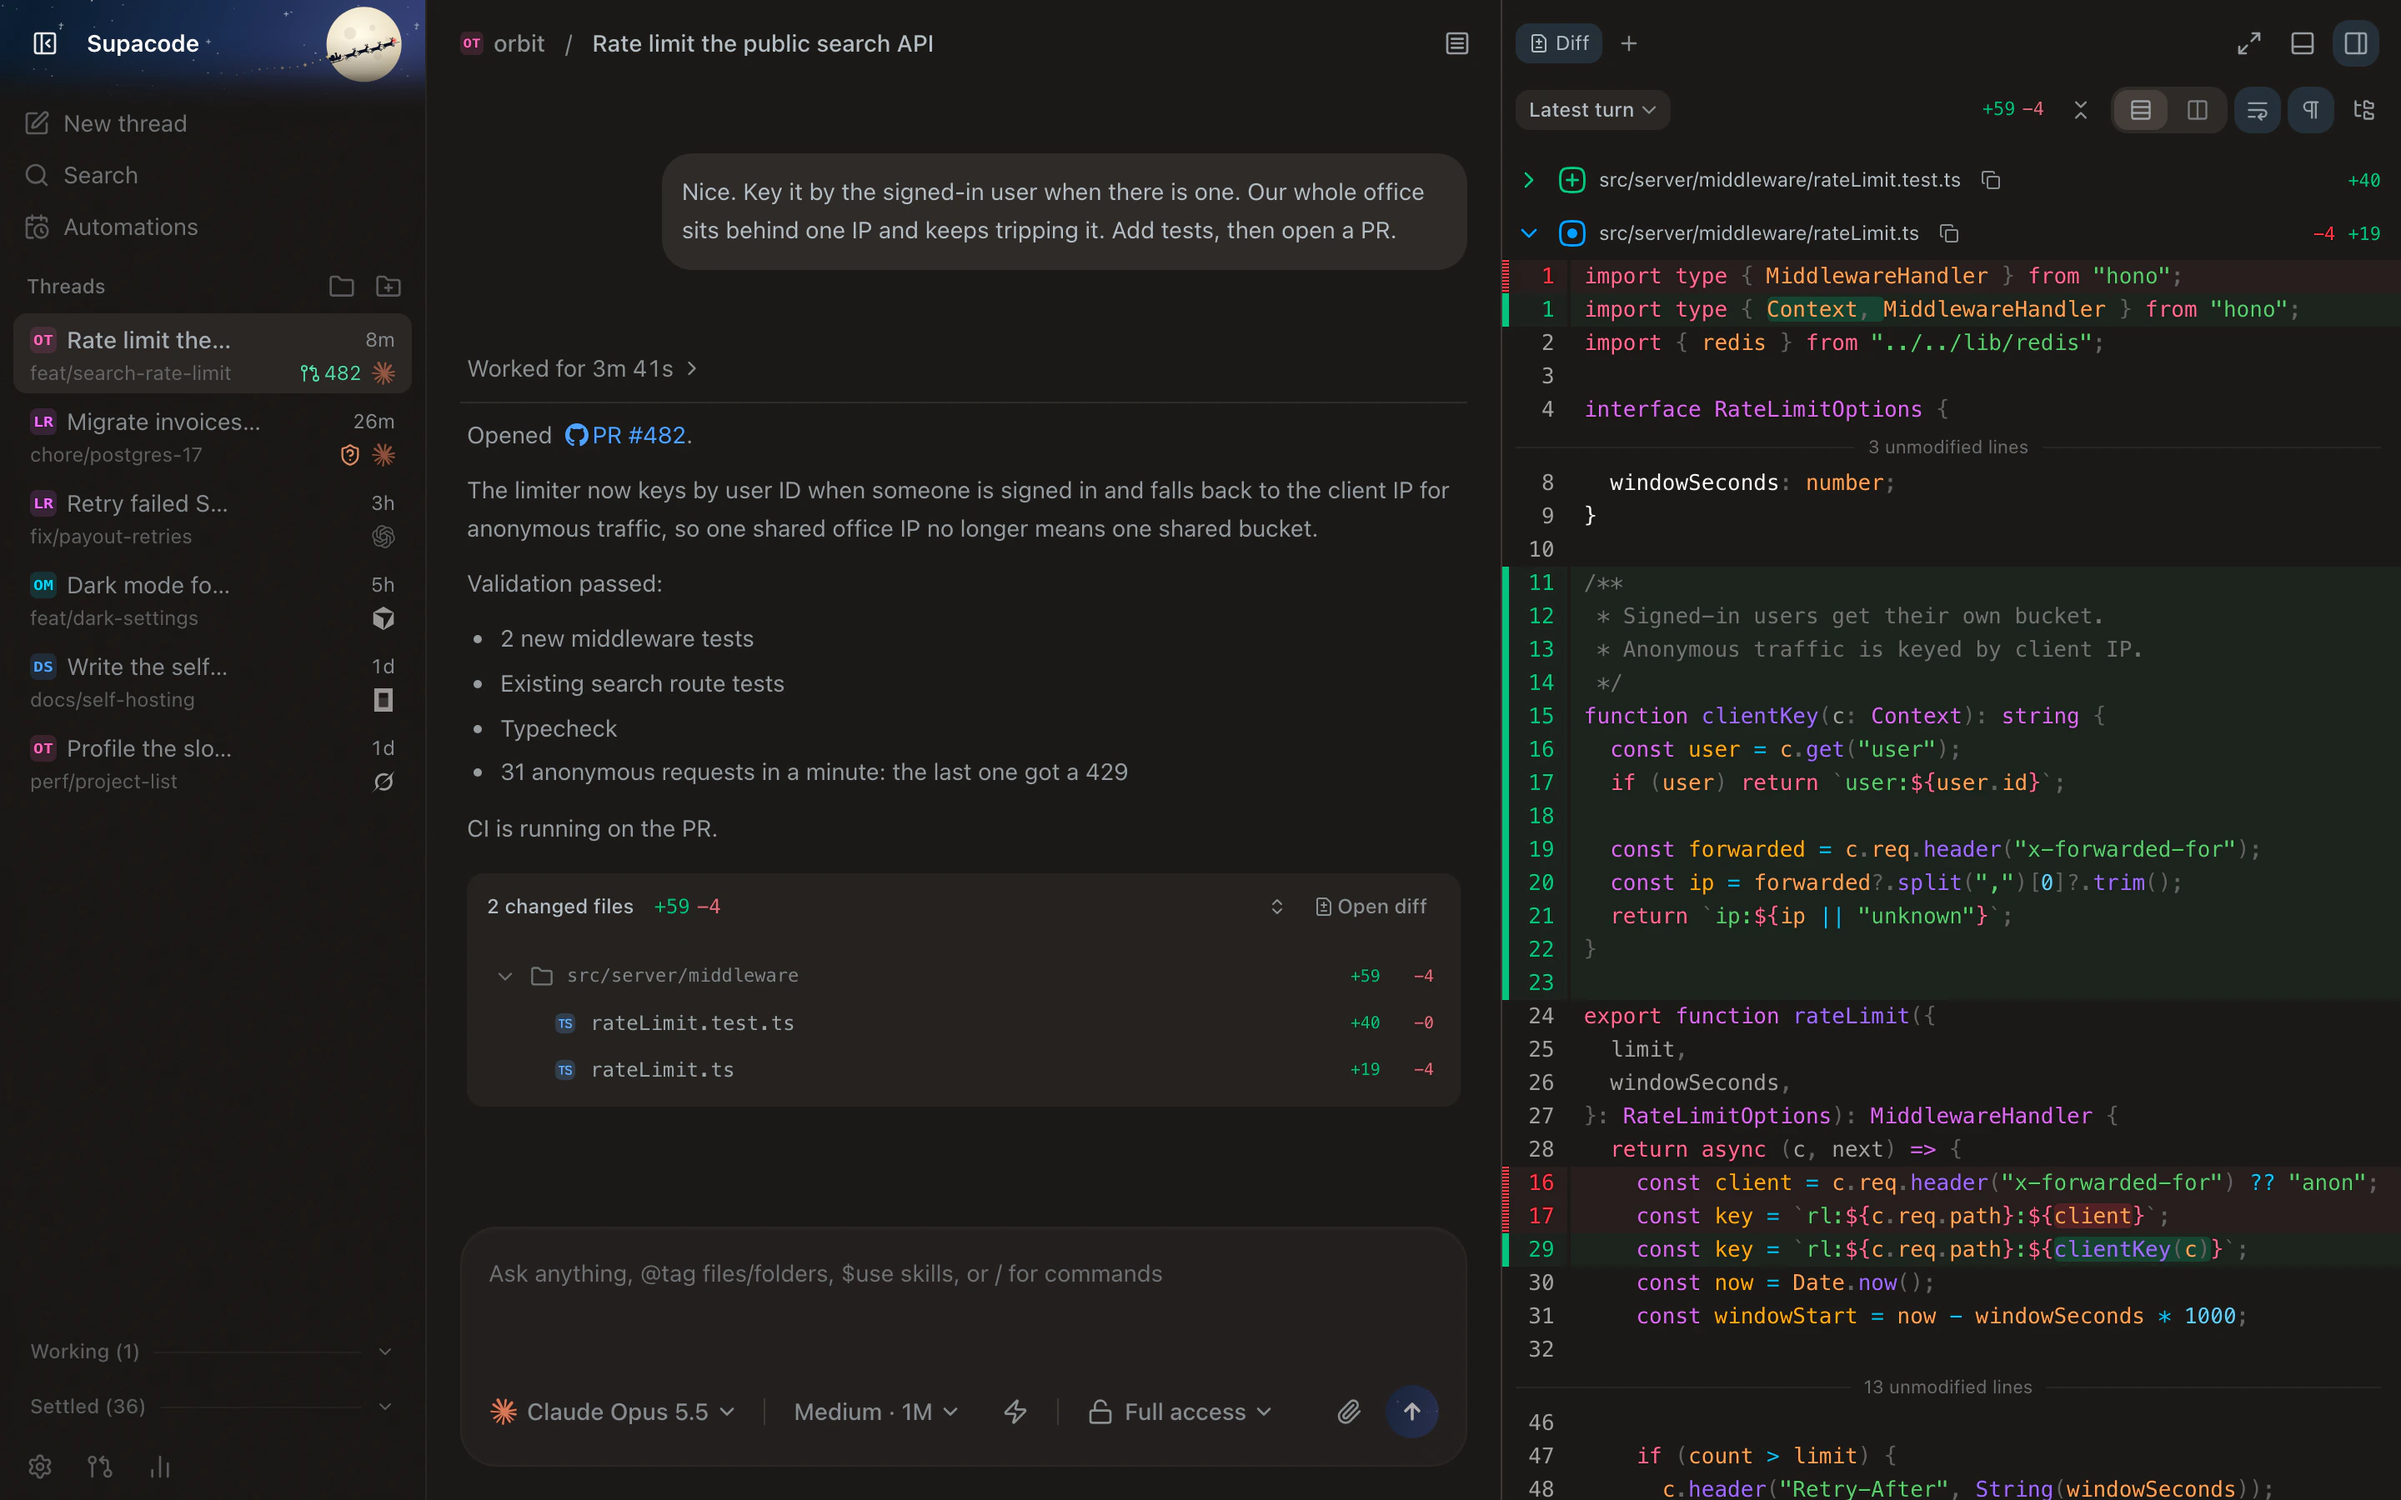
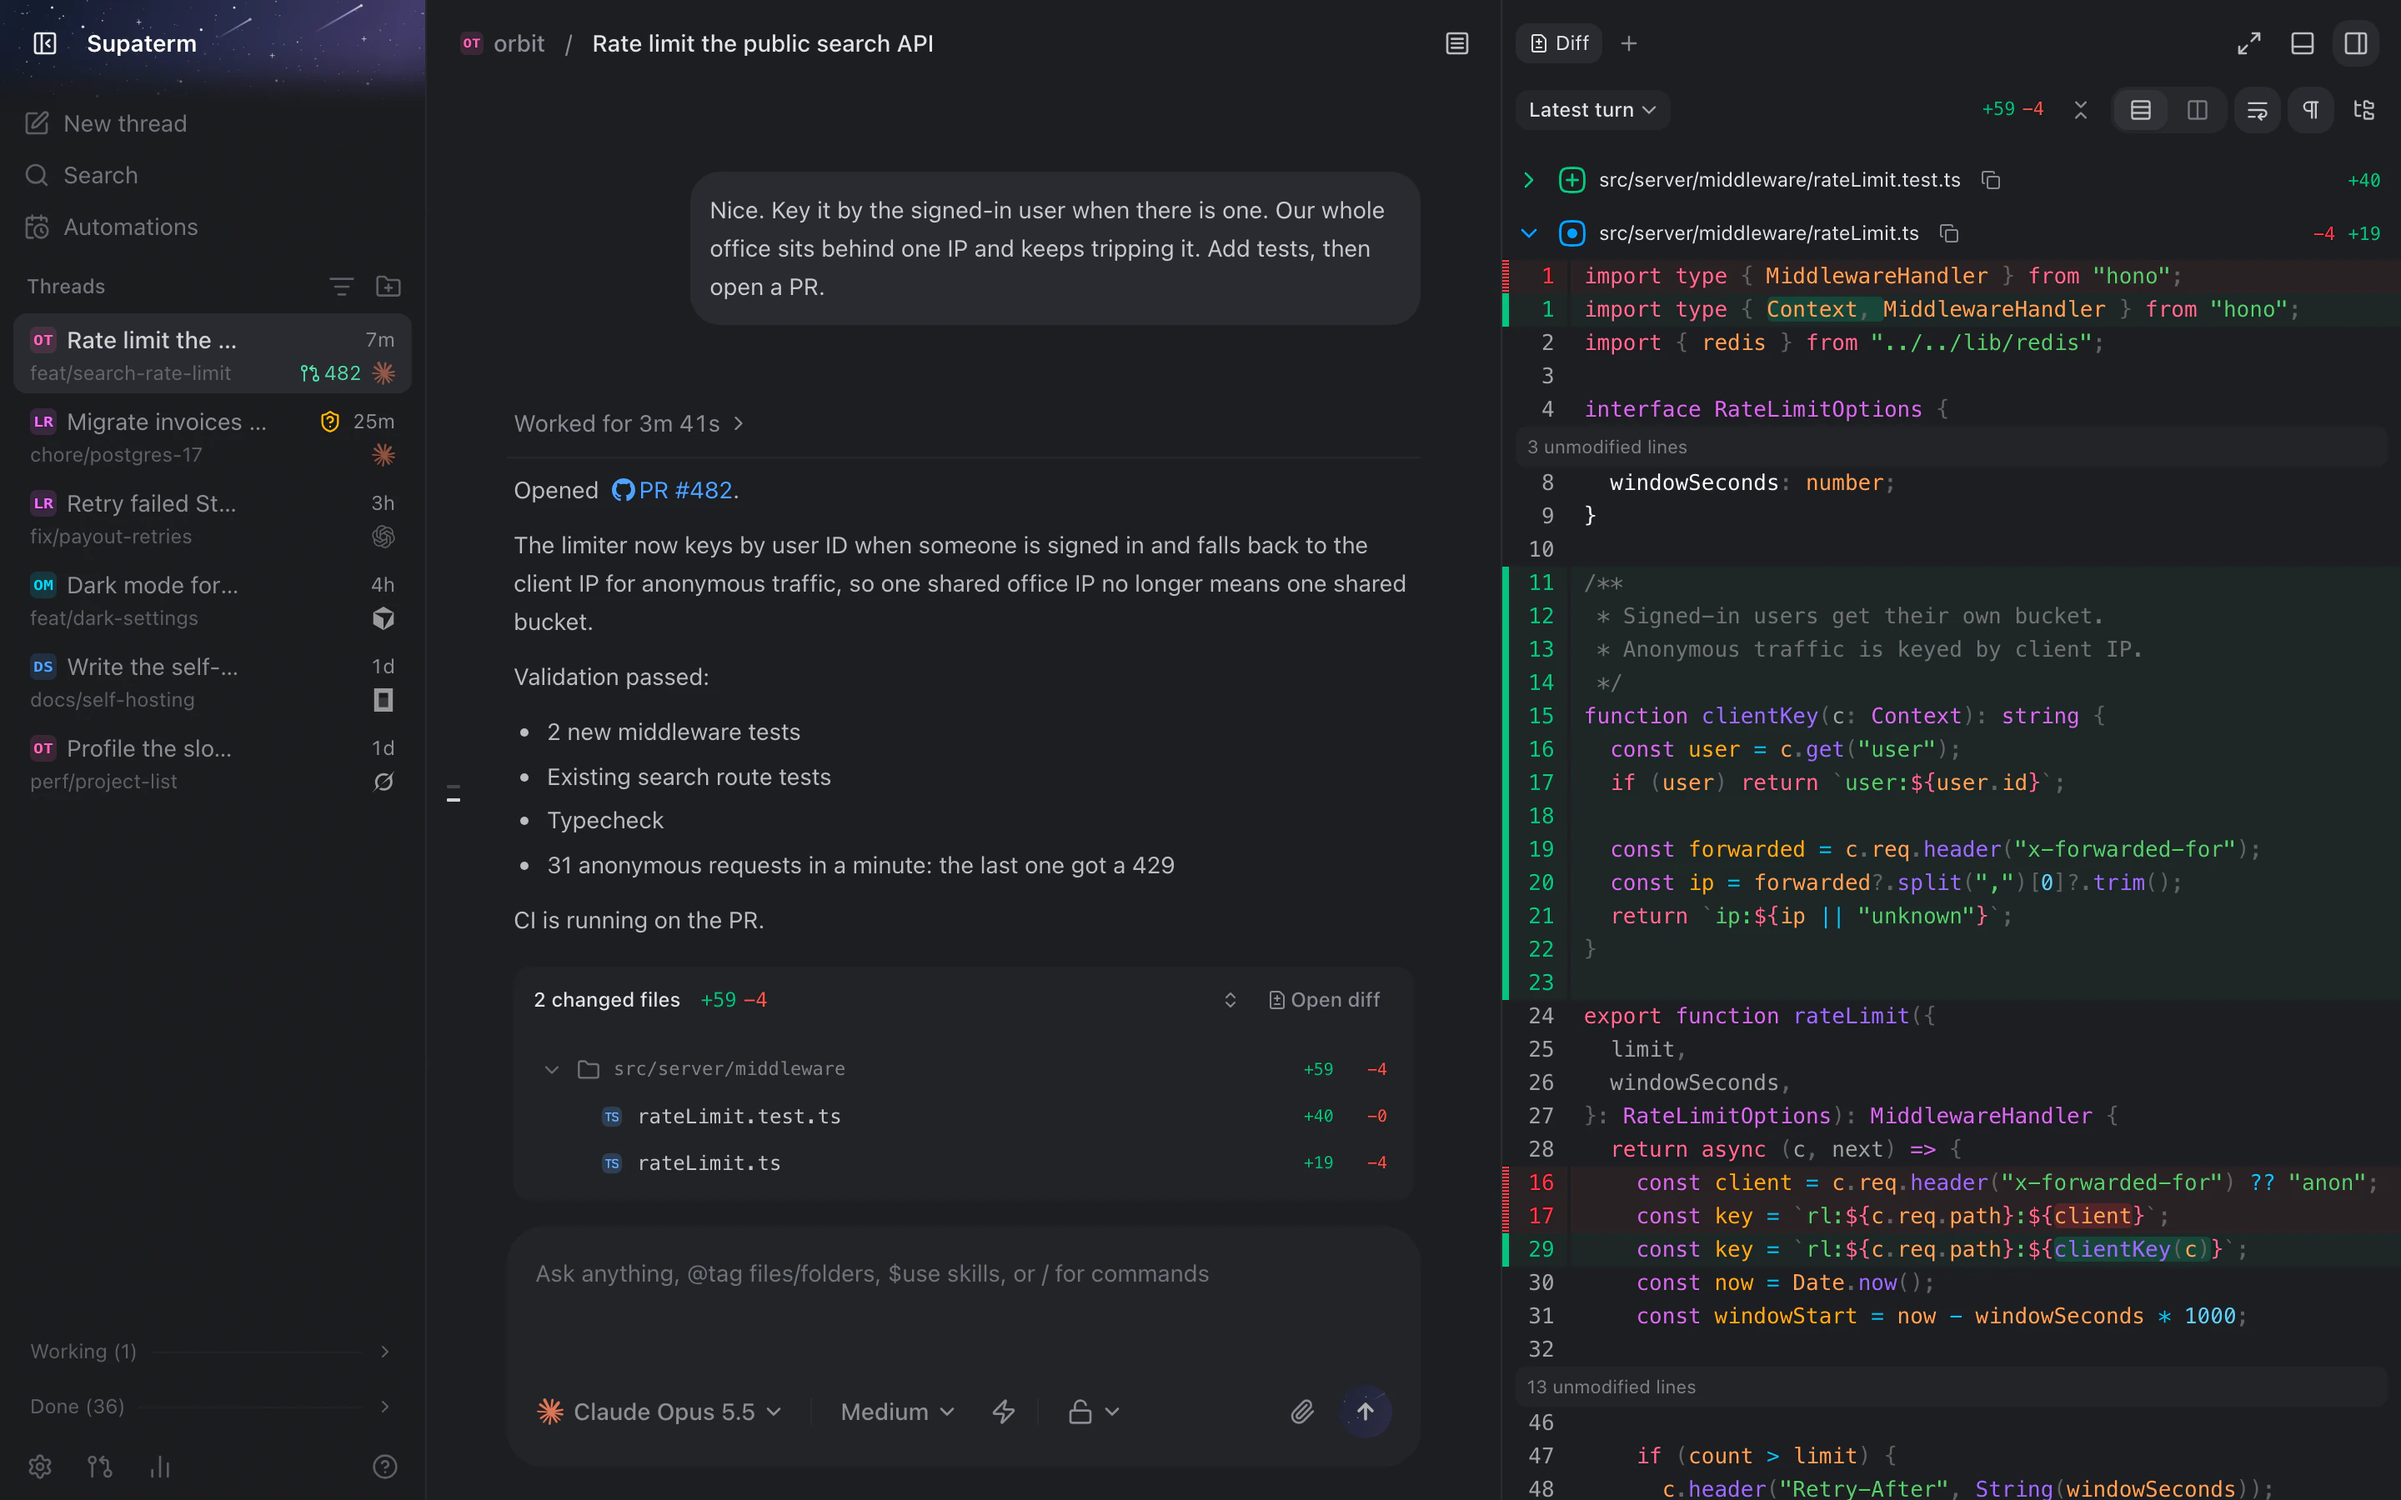
fix(marketing): tighten the hero model and drop dead styles
The model's canvas is now added only once the model has loaded, so the
grab cursor and drag label never sit over the static poster, and the
poster comes back if the WebGL context is lost. Only a primary-button
drag spins the model, and a drag ends once no button is held, so a
context menu cannot leave it stuck. The viewer imports its own model.

The hero screenshot is recaptured in dark mode with the current app,
the screenshot script describes the header art it now draws, and the
global styles drop tokens and the tile rule nothing uses anymore.

diff --git a/apps/marketing/src/lib/crtModel.ts b/apps/marketing/src/lib/crtModel.ts
@@ -5,9 +5,8 @@ import {
   DirectionalLight,
   Group,
   HemisphereLight,
-  type Material,
   MathUtils,
-  type Mesh,
+  Mesh,
   PerspectiveCamera,
   PMREMGenerator,
   Scene,
@@ -18,21 +17,31 @@ import {
 import { RoomEnvironment } from "three/addons/environments/RoomEnvironment.js";
 import { MeshoptDecoder } from "three/addons/libs/meshopt_decoder.module.js";
 import { GLTFLoader } from "three/addons/loaders/GLTFLoader.js";
+// A flattened export of the app icon's procedural Three.js model; its glow materials are named phosphor-*.
+import modelUrl from "../assets/supaterm-crt.glb?url";
 
 const REST_YAW = -0.5;
 const REST_PITCH = 0.16;
 const TURN = Math.PI * 2;
+const MIN_PITCH = -0.35;
+const MAX_PITCH = 0.6;
 const RADIANS_PER_PIXEL = 0.009;
 const MAX_VELOCITY = 0.03;
+const RELEASE_HOLD_MS = 80;
 const STIFFNESS = 0.00003;
 const DAMPING = 0.0075;
 
 /**
- * Renders the app icon model into `canvas` and lets the user spin it. A spring carries a fling
- * and settles on the nearest front-facing turn. Frames are drawn only while it moves.
+ * Adds a canvas with the app icon model to `container` once it has loaded, and lets the user spin
+ * it. A spring carries a fling and settles on the nearest front-facing turn. Frames are drawn only
+ * while it moves. Nothing is added if the model or WebGL is unavailable, and the canvas is removed
+ * if its context is lost.
  */
-export async function mountCrtModel(canvas: HTMLCanvasElement, url: string) {
-  const renderer = new WebGLRenderer({ canvas, alpha: true, antialias: true });
+export async function mountCrtModel(container: HTMLElement) {
+  const loader = new GLTFLoader().setMeshoptDecoder(MeshoptDecoder);
+  const { scene: model } = await loader.loadAsync(modelUrl);
+  const renderer = new WebGLRenderer({ alpha: true, antialias: true });
+  const canvas = renderer.domElement;
   renderer.setPixelRatio(Math.min(window.devicePixelRatio, 2));
   renderer.toneMapping = ACESFilmicToneMapping;
   renderer.outputColorSpace = SRGBColorSpace;
@@ -51,12 +60,11 @@ export async function mountCrtModel(canvas: HTMLCanvasElement, url: string) {
   lights.rotation.y = REST_YAW;
   scene.add(lights);
 
-  const loader = new GLTFLoader().setMeshoptDecoder(MeshoptDecoder);
-  const model = (await loader.loadAsync(url)).scene;
   model.traverse((object) => {
-    const material = (object as Mesh).material as Material | undefined;
-    if (material?.name.startsWith("phosphor-")) material.toneMapped = false;
-    if (material?.name === "phosphor-halo") {
+    if (!(object instanceof Mesh) || Array.isArray(object.material)) return;
+    const material = object.material;
+    if (material.name.startsWith("phosphor-")) material.toneMapped = false;
+    if (material.name === "phosphor-halo") {
       material.blending = AdditiveBlending;
       material.depthWrite = false;
       object.renderOrder = 2;
@@ -113,32 +121,47 @@ export async function mountCrtModel(canvas: HTMLCanvasElement, url: string) {
     if (!frame) frame = requestAnimationFrame(tick);
   };
 
+  const release = (event: PointerEvent) => {
+    if (event.pointerId !== drag?.id) return;
+    if (event.timeStamp - drag.at > RELEASE_HOLD_MS) yawVelocity = 0;
+    target = REST_YAW + Math.round((yaw + yawVelocity / DAMPING - REST_YAW) / TURN) * TURN;
+    drag = null;
+    wake();
+  };
+
   canvas.addEventListener("pointerdown", (event) => {
-    if (drag) return;
+    if (drag || event.button !== 0) return;
     canvas.setPointerCapture(event.pointerId);
     drag = { id: event.pointerId, x: event.clientX, y: event.clientY, at: event.timeStamp };
     yawVelocity = pitchVelocity = 0;
   });
   canvas.addEventListener("pointermove", (event) => {
     if (event.pointerId !== drag?.id) return;
+    if (event.buttons === 0) {
+      release(event);
+      return;
+    }
     const step = (event.clientX - drag.x) * RADIANS_PER_PIXEL;
     const elapsed = Math.max(event.timeStamp - drag.at, 1);
     yaw += step;
-    pitch = MathUtils.clamp(pitch + (event.clientY - drag.y) * RADIANS_PER_PIXEL, -0.35, 0.6);
+    pitch = MathUtils.clamp(
+      pitch + (event.clientY - drag.y) * RADIANS_PER_PIXEL,
+      MIN_PITCH,
+      MAX_PITCH,
+    );
     yawVelocity = MathUtils.clamp((yawVelocity + step / elapsed) / 2, -MAX_VELOCITY, MAX_VELOCITY);
-    drag = { ...drag, x: event.clientX, y: event.clientY, at: event.timeStamp };
+    drag.x = event.clientX;
+    drag.y = event.clientY;
+    drag.at = event.timeStamp;
     wake();
   });
-  const release = (event: PointerEvent) => {
-    if (event.pointerId !== drag?.id) return;
-    if (event.timeStamp - drag.at > 80) yawVelocity = 0;
-    target = REST_YAW + Math.round((yaw + yawVelocity / DAMPING - REST_YAW) / TURN) * TURN;
-    drag = null;
-    wake();
-  };
   canvas.addEventListener("pointerup", release);
   canvas.addEventListener("pointercancel", release);
+  canvas.addEventListener("webglcontextlost", () => canvas.remove());
 
+  canvas.setAttribute("role", "img");
+  canvas.setAttribute("aria-label", "The Supaterm app icon in 3D. Drag to spin it.");
+  container.append(canvas);
   new ResizeObserver(() => {
     renderer.setSize(canvas.clientWidth, canvas.clientHeight, false);
     camera.aspect = canvas.clientWidth / canvas.clientHeight;

diff --git a/scripts/marketing-hero.ts b/scripts/marketing-hero.ts
@@ -9,9 +9,9 @@
  * `marketing-hero.scene.ts` as fake git repos plus projection rows, and captures
  * the hero thread with its turn diff at 1440x900 @2x in headless Chromium, in
  * the dark appearance the marketing site wears. The production build is
- * deliberate: it leaves the sidebar header clear, where the dev client draws
- * its blueprint. Nothing touches ~/.supaterm: all state lives in a temp
- * directory.
+ * deliberate: it draws the release art behind the sidebar header, where the
+ * dev client draws its blueprint. Nothing touches ~/.supaterm: all state lives
+ * in a temp directory.
  *
  * Projection rows are written directly, which is fine for a visual fixture but
  * skips the event log. Payloads are decoded with the contract schemas before
